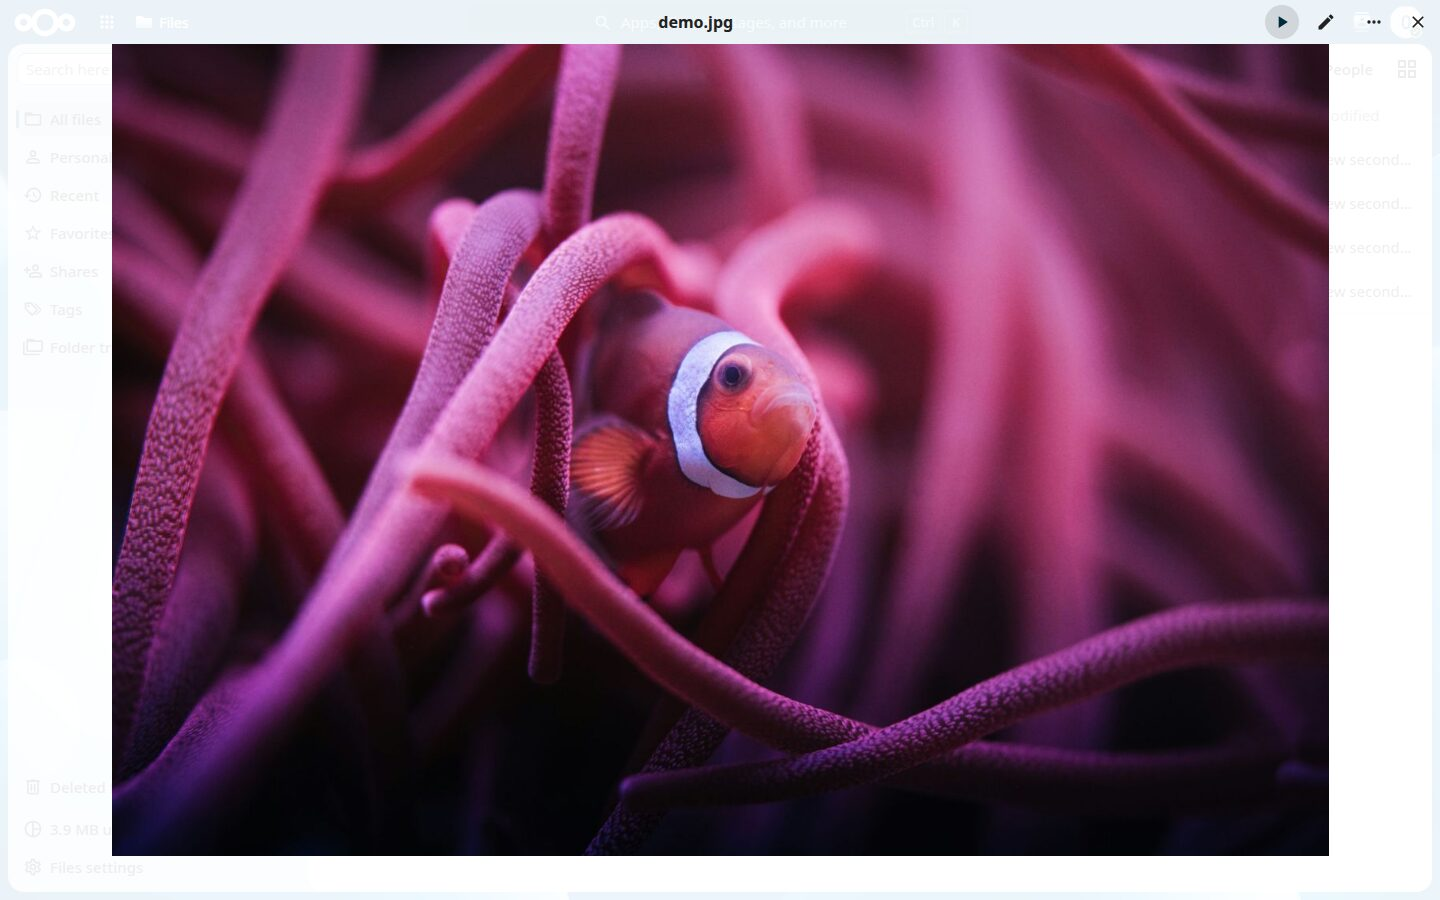
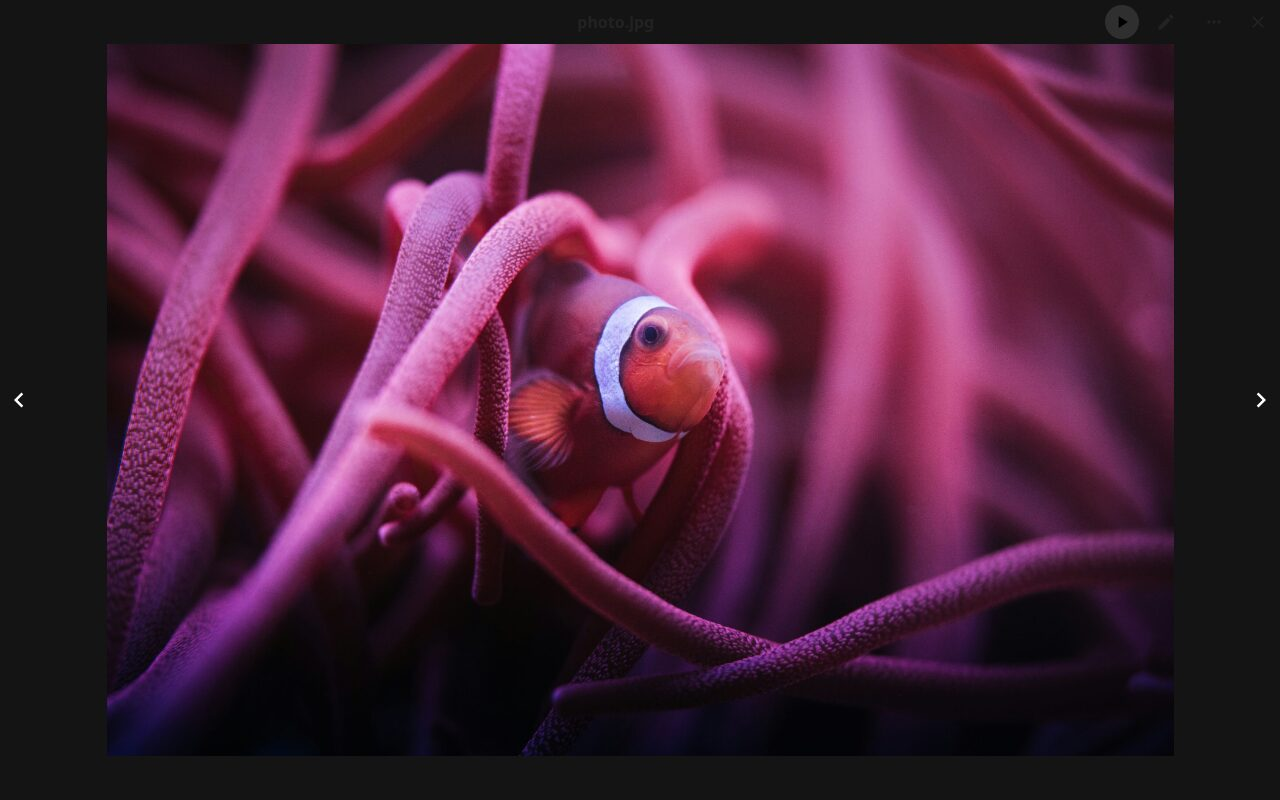
fix: keep the viewer dark whatever theme the user runs
The backdrop followed the user's theme: --background-invert-if-dark is
'no' in the default theme, so a light theme gave a light viewer. A photo
or a video reads better against dark, and the room around it should not
compete with it, so the viewer is dark and does not ask.

A handler showing something other than media can still ask for a light
backdrop; that is what the theme option is for. Nothing built in does.

Covered in the playground, which carries the server's default theming
and is therefore the light theme.

Assisted-by: ClaudeCode:claude-opus-4-8

diff --git a/playground/App.vue b/playground/App.vue
@@ -17,10 +17,22 @@ interface Fixture {
 	mime: string
 	/** Whether the viewer offers its editor for this one */
 	editable?: boolean
+	/**
+	 * Whether the server would have a preview for it. There is no previews
+	 * endpoint here, so this is what lets that path be exercised at all: the
+	 * viewer asks for /core/preview and the test decides what comes back.
+	 */
+	hasPreview?: boolean
 }
+
+// The previewed file needs a previews endpoint to stand behind it, so it is
+// only listed when asked for: it would otherwise sit in every other test's
+// list with nothing to serve it
+const withPreviews = new URLSearchParams(window.location.search).has('previews')
 
 const fixtures: Fixture[] = [
 	{ name: 'photo.jpg', mime: 'image/jpeg', editable: true },
+	...(withPreviews ? [{ name: 'previewed.jpg', mime: 'image/jpeg', hasPreview: true }] : []),
 	{ name: 'gradient.jpg', mime: 'image/jpeg', editable: true },
 	{ name: 'portrait.jpg', mime: 'image/jpeg', editable: true },
 	{ name: 'animation.gif', mime: 'image/gif' },
@@ -31,9 +43,10 @@ const fixtures: Fixture[] = [
 /**
  * The fixtures as Files nodes.
  *
- * Their source is a plain URL served by this page, not a WebDAV one, and
- * `hasPreview` is left off so the viewer loads that URL directly instead of
- * asking a previews endpoint that does not exist here.
+ * Their source is a plain URL served by this page, not a WebDAV one. Most
+ * leave `hasPreview` off so the viewer loads that URL directly instead of
+ * asking a previews endpoint that does not exist here; the one that sets it
+ * is there so that path can be tested with a stubbed endpoint.
  */
 const nodes: IFile[] = fixtures.map((fixture, index) => new File({
 	source: new URL(`./media/${fixture.name}`, window.location.href).href,
@@ -45,7 +58,10 @@ const nodes: IFile[] = fixtures.map((fixture, index) => new File({
 	owner: 'playground',
 	mtime: new Date('2026-01-01T00:00:00Z'),
 	permissions: fixture.editable ? Permission.ALL : Permission.READ,
-	attributes: { hasPreview: false },
+	attributes: {
+		hasPreview: fixture.hasPreview === true,
+		etag: `etag-${index + 1}`,
+	},
 }))
 
 /**

diff --git a/e2e/previews.spec.ts b/e2e/previews.spec.ts
@@ -1,0 +1,53 @@
+/*!
+ * SPDX-FileCopyrightText: 2026 Nextcloud GmbH and Nextcloud contributors
+ * SPDX-License-Identifier: AGPL-3.0-or-later
+ */
+import { readFileSync } from 'node:fs'
+import { fileURLToPath } from 'node:url'
+import { expect, test } from '@playwright/test'
+import { ViewerPage } from './support/viewer.ts'
+
+const IMAGE = readFileSync(fileURLToPath(new URL('../playground/media/gradient.jpg', import.meta.url)))
+
+test.describe('Previews', () => {
+	test('asks the previews endpoint for a file that has one', async ({ page }) => {
+		const requests: string[] = []
+		// There is no previews endpoint here, so stand in for one and record
+		// what the viewer asked it for
+		await page.route('**/core/preview*', async (route) => {
+			requests.push(route.request().url())
+			await route.fulfill({ contentType: 'image/jpeg', body: IMAGE })
+		})
+
+		const viewer = new ViewerPage(page)
+		await viewer.open('previewed.jpg', 'previews')
+		await viewer.waitForOpen()
+		await expect(viewer.container.locator('img')).toBeVisible()
+
+		expect(requests).toHaveLength(1)
+		const url = new URL(requests[0]!)
+		expect(url.searchParams.get('fileId')).toBe('2')
+		// Sized to the screen, and asking for the real aspect ratio
+		expect(Number(url.searchParams.get('x'))).toBeGreaterThan(0)
+		expect(Number(url.searchParams.get('y'))).toBeGreaterThan(0)
+		expect(url.searchParams.get('a')).toBe('true')
+		// The etag makes the preview cacheable and busts it when the file changes
+		expect(url.searchParams.get('etag')).toBe('etag-2')
+	})
+
+	test('loads the file itself when there is no preview', async ({ page }) => {
+		let asked = false
+		await page.route('**/core/preview*', async (route) => {
+			asked = true
+			await route.fulfill({ contentType: 'image/jpeg', body: IMAGE })
+		})
+
+		const viewer = new ViewerPage(page)
+		await viewer.open('photo.jpg')
+		await viewer.waitForOpen()
+		await expect(viewer.container.locator('img')).toBeVisible()
+
+		// Nothing to ask for: the source is loaded directly
+		expect(asked).toBe(false)
+	})
+})

diff --git a/lib/views/Viewer.vue b/lib/views/Viewer.vue
@@ -661,14 +661,15 @@ const compare: ViewerAPI['compare'] = async (file1, file2, handlerId) => {
 }
 
 /**
- * Handle Viewer opening to determine backdrop style
+ * Handle Viewer opening to determine backdrop style.
+ *
+ * The viewer is dark whatever theme the user runs: a photo or a video reads
+ * better against dark, and the room around it should not compete with it.
+ * A handler showing something else — a document, say — can ask for a light
+ * backdrop instead, but nothing follows the user's theme here.
  */
 function onOpen() {
-	// Determine if we should use a light backdrop
-	const backgroundInvertIfDark = getComputedStyle(document.documentElement).getPropertyValue('--background-invert-if-dark')
-	const defaultThemeIsLight = backgroundInvertIfDark.trim() !== 'invert(100%)'
-	const theme = currentHandler.value?.theme ?? 'default'
-	lightBackdrop.value = theme === 'light' || (theme === 'default' && defaultThemeIsLight)
+	lightBackdrop.value = (currentHandler.value?.theme ?? 'default') === 'light'
 }
 
 /**

diff --git a/e2e/theme.spec.ts b/e2e/theme.spec.ts
@@ -1,0 +1,20 @@
+/*!
+ * SPDX-FileCopyrightText: 2026 Nextcloud GmbH and Nextcloud contributors
+ * SPDX-License-Identifier: AGPL-3.0-or-later
+ */
+import { expect, test } from '@playwright/test'
+import { ViewerPage } from './support/viewer.ts'
+
+test.describe('Backdrop', () => {
+	test('stays dark under a light theme', async ({ page }) => {
+		const viewer = new ViewerPage(page)
+		// The playground carries the server's default theming, which is the
+		// light one: the viewer is dark regardless, because that is what a
+		// photo or a video reads best against
+		await viewer.open('photo.jpg')
+		await viewer.waitForOpen()
+
+		await expect(page.locator('.modal-mask')).toBeVisible()
+		await expect(page.locator('.modal-mask--light')).toHaveCount(0)
+	})
+})

diff --git a/e2e/support/viewer.ts b/e2e/support/viewer.ts
@@ -35,9 +35,10 @@ export class ViewerPage {
 	 * Open the playground and click one of its files.
 	 *
 	 * @param name the file to open
+	 * @param query optional playground flags, e.g. `previews`
 	 */
-	async open(name: string): Promise<void> {
-		await this.page.goto('/')
+	async open(name: string, query = ''): Promise<void> {
+		await this.page.goto(query ? `/?${query}` : '/')
 		await this.page.getByRole('button', { name }).click()
 	}
 
